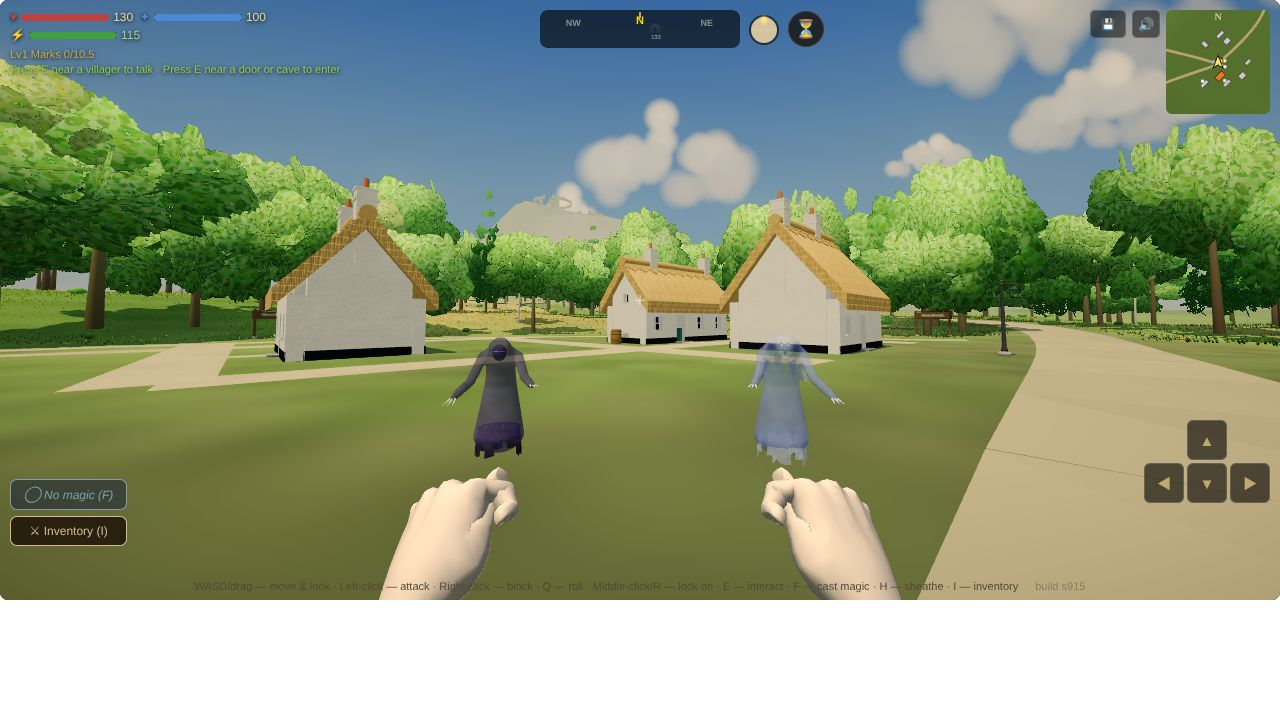
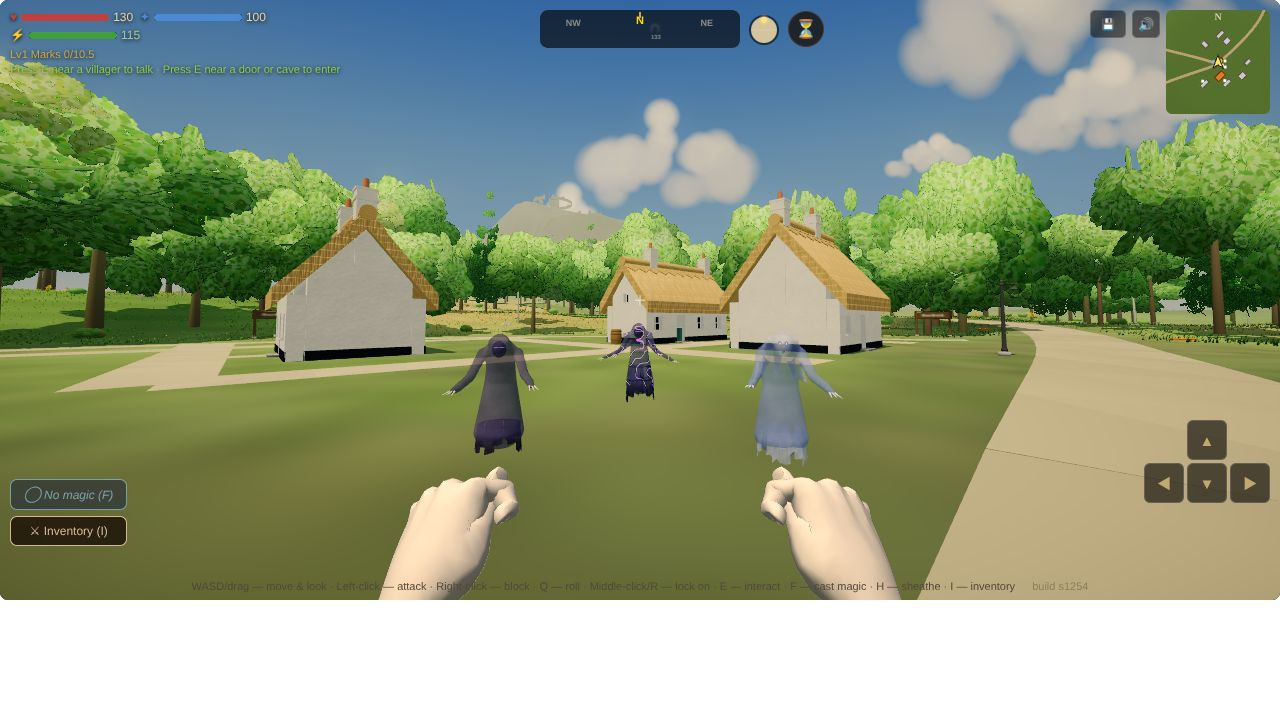
Bodies: Session 1866 — a failing gate's Wraith wears the failing wraith (L4, OG-073)
Claude-Session: https://claude.ai/code/session_019eFMMkdQc4EqECCY7Ban28

diff --git a/js/34-creatures.js b/js/34-creatures.js
@@ -977,6 +977,7 @@ const HC_KINDS={'Wolf':{plan:'wolf'},'Snow Wolf':{plan:'wolf',own:true},'Dire Wo
   'Golem':{plan:'golem',own:true,person:true,merge:true,ik:true,tall:true,glow:[.42,.69,1],glowR:.02},
   'Gargoyle':{plan:'gargoyle',own:true,person:true,merge:true,ik:true,glow:[1,.31,.13],glowR:.032,glowAt:{f:.8,up:.55,out:.5},garg:true},
   'Wraith':{plan:'wraith',own:true,person:true,legless:true,rest:HC_WRAITH_REST},'Phantom':{plan:'phantom',own:true,person:true,legless:true,rest:HC_WRAITH_REST},
+  'Wraith (failing)':{plan:'failingwraith',own:true,person:true,legless:true,rest:HC_WRAITH_REST,arms:true,float:.05}, /* S1866 — its hem is 15% longer, so it rides 5 cm higher, clear of the floor */
   'Deer':{plan:'deer',ik:true},'Hind':{plan:'deer',own:true,ik:true,bare:true},'Red Fox':{plan:'redfox'},'Brown Hare':{plan:'brownhare'},'Badger':{plan:'badger'},'Otter':{plan:'otter'},'Cow':{plan:'cow',ik:true},'Sheep':{plan:'sheep',ik:true},'Goat':{plan:'goat',ik:true},'Elderstag':{plan:'stag',ik:true},'Gatefen Boar':{plan:'gatefenboar'},'Redspine Fox':{plan:'redspinefox'},'Hollowcat':{plan:'hollowcat'},'Greenward Stoat':{plan:'stoat'},'Icehorn':{plan:'icehorn',ik:true},'Ironpine Elk':{plan:'ironpineelk',ik:true},'Craghorn Ram':{plan:'craghornram',ik:true},'Stormlynx':{plan:'stormlynx'},'Glacial Marmot':{plan:'glacialmarmot'},'Snowleap Hare':{plan:'snowhare'},'Duneskimmer':{plan:'duneskimmer',ik:true},'Terrace Ram':{plan:'terraceram',ik:true},'Sunspire Lynx':{plan:'sunspirelynx'},'Oasis Hare':{plan:'oasishare'},'Mirage Fox':{plan:'miragefox'},'Crownstag':{plan:'crownstag',ik:true},'Frostmane':{plan:'frostmane',ik:true},'Lanternfox':{plan:'lanternfox',night:true},'Thornrunner':{plan:'thornrunner'},'Stonejaw':{plan:'stonejaw'},
   'Shark':{plan:'reefshark',fish:true},'Whale':{plan:'stormwhale',fish:true},'Dolphin':{plan:'stormswift',fish:true},'Gull':{plan:'gull',fish:true,own:true,cell:.014},'Raven':{plan:'raven',fish:true,own:true,cell:.014},'Crow':{plan:'crow',fish:true,own:true,cell:.012},'Trout':{plan:'trout',fish:true,own:true,cell:.014},'River Pike':{plan:'riverpike',fish:true,own:true,cell:.02},'Riverjaw Salmon':{plan:'riverjaw',fish:true,own:true,cell:.02},'Mire Snake':{plan:'miresnake',fish:true,own:true,cell:.016},'Lantern Beetle':{plan:'lanternbeetle',fish:true,own:true,cell:.03},'Stonecrawler':{plan:'stonecrawler',fish:true,own:true,cell:.01},'Marsh Frog':{plan:'marshfrog',fish:true,own:true,cell:.012},'Frostspine Lizard':{plan:'frostspinelizard',fish:true,own:true,cell:.01},'Icecrab':{plan:'icecrab',fish:true,own:true,cell:.02},'Saltspine Monitor':{plan:'saltspinemonitor',fish:true,own:true,cell:.008},'Spined Gekko':{plan:'spinedgekko',fish:true,own:true,cell:.01},'Amber Shellcrab':{plan:'ambershellcrab',fish:true,own:true,cell:.02},'Sand Wyrm':{plan:'sandwyrm',fish:true,own:true,cell:.01},'Hen':{plan:'hen',fish:true,own:true,cell:.012},'Great Heron':{plan:'heron',fish:true,own:true,cell:.016},'Crag Hawk':{plan:'craghawk',fish:true,own:true,cell:.014},'Capercaillie':{plan:'capercaillie',fish:true,own:true,cell:.016},'Skyraven':{plan:'skyraven',fish:true,own:true,cell:.014},'Stormshrike':{plan:'stormshrike',fish:true,own:true,cell:.014},'Tundra Grouse':{plan:'tundragrouse',fish:true,own:true,cell:.012},'Scarlet Ibis':{plan:'scarletibis',fish:true,own:true,cell:.016},'Cypress Stalker':{plan:'cypressstalker',fish:true,own:true,cell:.016},'Sunbeak Vulture':{plan:'sunbeakvulture',fish:true,own:true,cell:.016},'Cliffswift':{plan:'cliffswift',fish:true,own:true,cell:.01},'Glasswing Moth':{plan:'glasswingmoth',fish:true,own:true,cell:.014},'Slime':{plan:'slime',fish:true},'Fire Elemental':{plan:'fireelemental',fish:true}};
 // the driver's joints and the kit's bones they move, parents first (the kit's front legs hang on spine3, the hind on spine0)
@@ -1008,6 +1009,14 @@ function hcOn(){return HC_BODY.on&&window.OG_LOOK==='new'&&typeof HC!=='undefine
 // is to its horse. Keyed as before, `coach:<road>:<i>`, so a team's two are two bodies and the same two every time.
 function buildCoachBeast(key,i,isle){const au=isle==='aurenne',mk=isle==='mark';
   const rg=buildWolf(au?'Mule':(i&&!mk&&(pHash(key)&1))?'Grey Horse':'Horse',au?1.44:1.6);rg.hcKey='coach:'+key+':'+i;if(ANIMAL_ISLES.includes(isle))rg.hcIsland=isle;return rg;}
+// Session 1866 (backlog L4, OG-073: "failing gates change their foes"): the condition of the gate you are in, or null outside one. A gate
+// is buildDungeon's own test (a cave that is no keep, lair or tutorial; 56-dungeon-build.js), and its condition makeGate's: the world's
+// entry's if it names one, else the gate's seed's (gateCondRoll, 52-dungeon-gen.js). Read when a foe's driver is built, so a gate's foes
+// take its form as they are made
+function hcGateCond(){try{const P=currentPortal;if(activeZoneId!=='dungeon'||!P||P.tutorial||dunKeepKind(P)||fortShapeFor(P)!=='cave')return null;
+  const W=(WORLD_DUNGEONS.find(e=>e.seed===P.seed)||{}).cond;return GATE_CONDS.includes(W)?W:gateCondRoll(P.seed);}catch(e){return null;}}
+// a foe whose kind the kit has a failing form for wears it in a failing gate, and in a catastrophic one, which has failed further
+function hcFailing(){const c=hcGateCond();return c==='failing'||c==='catastrophic';}
 function hcPlan(name){const K=HC_KINDS[name];if(!K.own)return K.plan;const id='game:'+name;
   // a person's (Session 1356): what it holds is the game's (a sword, or a spear), not the plan's sword and shield, which no rule of the
   // Skeleton's fight has; its sockets lit in the foe's eye colour (ZONE_FOE_DEF's 0x80c0ff), as the old body's are
@@ -1093,13 +1102,13 @@ function hcAttach(rig,C){const tA=performance.now();
   // a water bug's forelegs (Session 1337): each femur and tibia, and the tibia's hinge from the kit's rest (its bones' rest turns are the identity)
   const bug=rig.k&&rig.k.bug&&by.arm0L_2?['L','R'].map(n=>({n,fem:by['arm0'+n+'_0'],tib:by['arm0'+n+'_1'],ax:by['arm0'+n+'_1'].position.clone().cross(by['arm0'+n+'_2'].position).normalize()})):null;
   // the Faolchú's two pairs of arms (Session 1347): the kit's own list, posed by hcArms (the driver has no arm bones)
-  const arms=HC_KINDS[hcKind(rig)].arms?C.B.arms.map(A=>({b:A.names.slice(0,3).map(n=>by[n]),side:A.side,ph:A.phase,sw:A.swing,pair:+A.names[0][3]})):null;
+  const arms=HC_KINDS[hcKind(rig)].arms?C.B.arms.map(A=>({b:A.names.slice(0,3).map(n=>by[n]),side:A.side,ph:A.phase,sw:A.swing,pair:+A.names[0][3]})).filter(A=>!K.person||A.pair>0):null; /* S1866 — a person's first pair is the driver's own arms (HC_PMAP); only its extra pairs are posed by hcArms */
   // a dragon's wings (Session 1348): the kit's membrane wings, each arm's three bones and its fingers, posed by hcWings from the driver's
   const wings=HC_KINDS[hcKind(rig)].wings?C.B.wings.filter(W=>!W.feathered).map(W=>({side:W.side,ph:W.phase||0,arm:W.arm.map(n=>by[n]),fing:W.fingers.map(f=>by[f[0]])})):null;
   // a gargoyle's (Session 1375): the same wings, and its tail's joints
   const garg=K.garg?{wings:C.B.wings.map(W=>({side:W.side,arm:W.arm.map(n=>by[n]),fing:W.fingers.map(f=>by[f[0]])})),tail:Object.keys(by).filter(n=>/^tail\d+$/.test(n)).map(n=>by[n]),R:C.plan.wingRest}:null;
   const sway=K.sway?Object.keys(by).filter(n=>/^tail\d+$/.test(n)).map(n=>by[n]):null;
-  rig.hc={W,C,map,s0,t0,fur,small,ik,feet,hb,scorp,bug,arms,wings,sway,garg,merge:!!HC_KINDS[hcKind(rig)].merge,unhunch:!!HC_KINDS[hcKind(rig)].unhunch,rest:K.rest?Object.entries(K.rest):null,ank:K.person&&ik?map.map(([j],i)=>/^an/.test(j)?i:-1).filter(i=>i>=0):null,glow:meshes.map(m=>m.material.userData&&m.material.userData.uGlow).filter(u=>u&&u.value&&u.value.isColor),mid:null,bits:C.B.bits.map(b=>b.obj),hide:meshes.filter(m=>!fur.includes(m)),lift:K.legless?.24*SCALE.ROOM_K:0,hip0:sp?B.body.position.clone():K.person?new THREE.Vector3(0,PW.HIPS,0):new THREE.Vector3(B.hips.position.x,wolfHipY(rig.k),B.hips.position.z),pos0:by.spine0.position.clone(),k:1/(f*C.S),L:-1,drv:rig.mesh.material,em:-1};
+  rig.hc={W,C,map,s0,t0,fur,small,ik,feet,hb,scorp,bug,arms,wings,sway,garg,merge:!!HC_KINDS[hcKind(rig)].merge,unhunch:!!HC_KINDS[hcKind(rig)].unhunch,rest:K.rest?Object.entries(K.rest):null,ank:K.person&&ik?map.map(([j],i)=>/^an/.test(j)?i:-1).filter(i=>i>=0):null,glow:meshes.map(m=>m.material.userData&&m.material.userData.uGlow).filter(u=>u&&u.value&&u.value.isColor),mid:null,bits:C.B.bits.map(b=>b.obj),hide:meshes.filter(m=>!fur.includes(m)),lift:K.legless?.24*SCALE.ROOM_K-(K.float||0):0,hip0:sp?B.body.position.clone():K.person?new THREE.Vector3(0,PW.HIPS,0):new THREE.Vector3(B.hips.position.x,wolfHipY(rig.k),B.hips.position.z),pos0:by.spine0.position.clone(),k:1/(f*C.S),L:-1,drv:rig.mesh.material,em:-1};
   rig.hc.gr=hcGroundLegs(rig,by,K,W);
   if(HC_KINDS[hcKind(rig)].night)rig.hc.night=rig.hc.glow.map(u=>u.value.clone()); /* S1853 — a glow lit only at night (the Lanternfox), its full colour kept */
   HC_BODY.ms+=performance.now()-tA;HC_BODY.n++;}
@@ -1219,12 +1228,15 @@ function hcBug(rig){const B=rig.B;for(const A of rig.hc.bug){const o=B['fang'+A.
 // forward past their rest and settle, the hind pair a beat behind the fore. The kit's arm bones rest at the identity, so a turn about
 // x swings an arm fore and aft in the body's plane, as the kit's gait does (creatures.js, pose's "arms swing against the legs")
 const HC_FAOL={rise:.7,cock:-1.1,push:.9,reach:-.9,lag:.3};
-function hcArms(rig){const H=rig.hc,e=rig.e,w=e?(e._wind||0):0,lk=e&&e._lunge!=null?1-Math.max(0,e._lunge)/.3:-1,mv=1-((rig.w&&rig.w.stand)||0),tau=Math.PI*2,F=HC_FAOL;
+// Session 1866: a dungeon's foe strikes by e.atkAnim (0.35 s, counting down), not by the open world's e._lunge, so the rake reads either
+// a person's extra pair (Session 1866, the failing wraith's from the robe's middle) reaches ahead and down, where the Faolchú's hang
+// straight down, so the same turn about x runs the other way: drawn back and low through the wind-up, raked forward and up (sg)
+function hcArms(rig){const H=rig.hc,sg=HC_KINDS[hcKind(rig)].person?-1:1,e=rig.e,w=e?(e._wind||0):0,lk=e&&e._lunge!=null?1-Math.max(0,e._lunge)/.3:e&&e.atkAnim>0?1-Math.min(1,e.atkAnim/.35):-1,mv=1-((rig.w&&rig.w.stand)||0),tau=Math.PI*2,F=HC_FAOL;
   for(const A of H.arms){let u=-w;
     // the strike's course: from drawn back (-1) through the rake (+1) to the rest (0); the hind pair starts a beat late
     if(lk>=0){const k=Math.max(0,Math.min(1,(lk-(A.pair?F.lag:0))/(1-F.lag)));u=-Math.cos(1.5*Math.PI*k);}
     const s=A.sw*mv*Math.sin(tau*(rig.phase||0)+(A.side>0?0:Math.PI)+A.ph);
-    A.b[0].rotation.set(s+(u<0?F.rise:F.push)*u,0,0);A.b[1].rotation.set(-Math.abs(s)*.6-.2-F.cock*Math.max(0,-u)+F.reach*Math.max(0,u),0,0);A.b[2].rotation.set(.3*u,0,0);}}
+    A.b[0].rotation.set(sg*(s+(u<0?F.rise:F.push)*u),0,0);A.b[1].rotation.set(sg*(-Math.abs(s)*.6-.2-F.cock*Math.max(0,-u)+F.reach*Math.max(0,u)),0,0);A.b[2].rotation.set(sg*.3*u,0,0);}}
 // Session 1348: a dragon's wings. The driver has one bone a side, folded along the back at rest and spread and beating once roused
 // (wgApply: rig.wing 0 to 1, rig.flap the beat's phase). The kit's wings take the same two numbers through its own pose's turns
 // (creatures.js, "wings rest half-folded … or beat"): folded at the plan's own rest (wingFold, 0.22; at 1 a dragon's wings hang open to

diff --git a/js/32-people.js b/js/32-people.js
@@ -1125,7 +1125,7 @@ function buildFoe(type,x,z,genome,eyeCol,arm){
   if(g.goblin&&typeof hcOn==='function'&&hcOn()){rig.hcKind=g.wpn?'Goblin':'Goblin Slinger';HC_RIGS.add(rig);} /* S1364 (F4) — and the goblins the kit's goblin, the knife's or the slinger's empty hands */
   if(g.troll&&typeof hcOn==='function'&&hcOn()&&HC_KINDS[type]){rig.hcKind=type;HC_RIGS.add(rig);} /* S1378 (F4) — the trolls the kit's troll, with its maul, in their kind's hide */
   if(g.golem&&typeof hcOn==='function'&&hcOn()){rig.hcKind='Golem';HC_RIGS.add(rig);} /* S1371 (F4) — the Golem the kit's golem, its eyes rune-lit */
-  if(g.wraith&&typeof hcOn==='function'&&hcOn()){rig.hcKind=g.phantom?'Phantom':'Wraith';HC_RIGS.add(rig);} /* S1429 (F4) — the Wraith and the Phantom the kit's, floating legless with their claws (hcPose takes off the driver's stance) */
+  if(g.wraith&&typeof hcOn==='function'&&hcOn()){rig.hcKind=g.phantom?'Phantom':hcFailing()?'Wraith (failing)':'Wraith';HC_RIGS.add(rig);} /* S1866 — in a failing gate the failing wraith (OG-073) */ /* S1429 (F4) — the Wraith and the Phantom the kit's, floating legless with their claws (hcPose takes off the driver's stance) */
   if(g.gargoyle&&typeof hcOn==='function'&&hcOn()){rig.hcKind='Gargoyle';HC_RIGS.add(rig);} /* S1375 (F4) — the Gargoyle the kit's gargoyle, its stone wings folded by its fold (hcGarg) */
   if(hbOn()&&hbFoeOk(type,genome,g)){rig.hbFoe=type;if(g.hbKey)rig.hbG=HB_GENOMES.get(g.hbKey);HB_RIGS.add(rig);} /* S1201 (F4) — a human foe wears the builder's body too, its genome rolled at its first attach, by its id */
   return rig;

diff --git a/docs/backlog.md b/docs/backlog.md
@@ -576,7 +576,7 @@ Michael marked all 96 images of the intake on the review page: 63 KEEP and 33 NO
 ### L4. The gates' foes (with C's gates by school)
 - **Each school's hall and antibodies** (look and systems; OG-018, which draws §9a exactly): Tine forge-hot, Uisce drowned, Cloch fallen masonry, Scáth violet dark, Solas white light, Gaoth open to the sky; occupied gates as goblin warrens. New foes: Magma Slime, Drowned Skeleton, Frost Thing (needs a folk shape under the ice; two plans in the kit, Session 958, `frostshard` and `frostfolk`; Michael's B on DECISION #362, the folk shape, `frostfolk`; ~~its face~~ — done, Session 968: the skeleton's skull inside his head, seen through ice thinned to 0.4 over the face, `faceClear` in the kit; `creatures-frostfolk-head.jpg`, `-front.jpg`; owed: the game, after F4), Wisp and Winged Thing, which fill Gaoth, the school with no foes yet. **The Winged Thing is a plan in the kit, Session 955** (bodies builder; `creatures.js` `wingedthing`, `creatures-wingedthing.jpg`, `-fly.jpg`): a griffin of a big cat's body, an eagle's head and beak, feathered wings and a feathered tail fan, pale storm-grey; ~~eagle's talons for its forefeet~~ — done, Session 960 (`talonFore`, a hind toe on `claws.back`; `creatures-wingedthing-front.jpg`); ~~hooked, not straight~~ — done, Session 970 (`claws.hook` in the kit: each claw arches onto its point, its tip where a straight one's is; `creatures-wingedthing-foot.jpg`, from the bestiary's new `cam=foot`); ~~its folded wing's feathers fanned out sideways from the wrist~~ — done, Session 974 (a quill bone for every flight feather in the kit, turned back along the body when the wing folds, on all nine feathered fliers; `creatures-wingedthing-folded.jpg`, `creatures-craghawk-folded.jpg`, `creatures-duskeagle-folded.jpg`); ~~the folded wing a thin dark line from the side~~ — done, Session 983 (each quill also rolled about its own line so the card leans down over the flank, faces 39 degrees from facing out on average where they were 84; `creatures-wingedthing.jpg` against `creatures-wingedthing-side-before.jpg`); ~~the Dusk Eagle's ragged primaries closing like a whole wing~~ — done, Session 984 (`feathers.ragged` fans the few primaries down the flank when folded, 3.2 degrees between neighbours where the hawks' stack at 0.6; `creatures-duskeagle-perched.jpg`, `creatures-duskeagle-folded.jpg`); owed: the game (after F4). **OG-018's gargoyles are plans, Session 956** (`gargoyle` for Cloch, moss-stained stone, and `gaothgargoyle`, weathered pale, wings a quarter wider; `GARGOYLES`; `creatures-gargoyle.jpg`, `-front.jpg`, `-fly.jpg`, `creatures-gaothgargoyle.jpg`): the goblin's crouched frame in stone, horns, a tail, a stone ridge, bat wings folded up behind the shoulders by `wingRest`; the wings' stone skin drew near black, ~~fixed~~ — done, Session 959 (`wingLight`: a skin wing gives back a share of its colour as light through it; the dragon's too); owed: the game's dormant Gargoyle replaced (after F4). **OG-018's Phantom is a plan in the kit, Session 1428** (bodies builder; `creatures.js` `phantom`, `PHANTOMS`; `creatures-phantom-front.jpg`, `-side.jpg`, `-back.jpg`, `-head.jpg`, `-hover.jpg`): the wraith's legless floating body and claws (Michael's B on #158), its face kept, two hollow sockets with a pale light each and a hollow wailing mouth, five locks of hair streaming down its back, clearer (0.58) and a tenth smaller than the wraith; ~~the Wraith and the Phantom on the kit's bodies in the game~~ — done, Session 1429 (`HC_KINDS`' `legless`, `HC_WRAITH_REST`; `tests/f4wraiths`, `docs/prototypes/f4/f4-wraiths.jpg`).
 - **The classic five, dark** (look builder; OG-041): a skeleton with a notched sword and round shield, a crouched goblin with spear and hide shield, a cave troll whose hide grows moss (a Cloch troll), a slime with bones and rubble inside, a pale giant spider with egg sacs. **The cave troll is a plan in the kit, Session 926** (bodies builder; `creatures.js` `troll`, `creatures-troll.jpg`): a hunched biped, 2.2 m to the crown, moss on its stone-grey hide; OG-018's Tine and Uisce trolls as recolours and a brow on the head, Session 927 (`TROLLS`, `creatures-trolls.jpg`); ~~its lashed-on armour scraps~~ — done, Session 945 (`straps` again: iron plates on the chest and shoulder and a rawhide sheet on the back under three leather lashings, on the OG-041 troll only; `creatures-troll-front.jpg`, `-back.jpg`). **The slime is a plan, Session 928** (`slime`, with OG-018's `magmaslime` for Tine; `SLIMES`): clear, bones and rubble inside; ~~the holes through it~~ — done, Session 954 (`holes` in the kit: three tunnels cut through the flesh from flank to flank, both slimes on a 6 cm grid; `creatures-slime.jpg`, `creatures-magmaslime.jpg`). **The giant spider's thorns and egg sacs, Session 932** (`spider`: thorns up every leg segment, a clutch of silk sacs under the abdomen's tip; `creatures-spider.jpg`, `creatures-spider-back.jpg`). **The goblin is a plan, Session 933** (`goblin`, `GOBLINS`; `creatures-goblin.jpg`, `creatures-goblin-front.jpg`, `creatures-classic.jpg`): the troll's frame at half its height, long ears, a spear and a hide shield (`gear` in the kit, the first gear on a creature); ~~its scrap-leather harness~~ — done, Session 944 (`straps` in the kit: a belt, a sash and a hide shoulder scrap laid 7 mm on the grown skin, each point on the skin's own weights; `creatures-goblin-front.jpg`, `-back.jpg`). **The skeleton is a plan, Session 934** (`skeleton`, `SKELETONS`; `creatures-skeleton.jpg`, `creatures-skeleton-front.jpg`): the kit's first bare body (`bare`: its capsules drawn as bones), ribs and a pelvis, a notched sword and a round wooden shield; ~~its hip rags (cloth on a creature)~~ — done, Session 943 (`rags` in the kit: torn strips on a cord, passing to the thigh bones down their length; `creatures-skeleton-front.jpg`, `-back.jpg`); ~~a truer skull~~ — done, Session 942 (a modelled skull and mandible, 20 teeth, the drowned skeleton's eyes lit in the sockets; `creatures-skeleton-skull*.jpg`); ~~OG-018's drowned skeleton (Uisce)~~ — done, Session 935 (`drownedskeleton`, weed-hung; `creatures-drownedskeleton.jpg`). So all five of OG-041 are plans (`creatures-classic.jpg`). ~~The giant spider in the game~~ — done, Session 1319 (bodies builder; the Spider foe on the kit's `spider` behind the new look, at twice the kit's cell, its eight feet set where its old rig's are; `f4spiders`, `docs/prototypes/f4/f4-spiders.jpg`); ~~the Sand Scorpion (`dunescorpion`)~~ — done, Session 1325 (`f4spiders`, `docs/prototypes/f4/f4-scorpion.jpg`); the Bog Crawler is a plan in the kit, Session 1336 (`bogcrawler`, `CRAWLERS`: a flat oval water bug on four walking legs, the raptorial forelegs as arms with a hooked tibia, `hook` in the kit's arms; `creatures-bogcrawler-*.jpg`); ~~the Bog Crawler in the game~~ — done, Session 1337 (behind the new look on the spider's driver, its forelegs folding with the driver's fang and hook bones, `hcBug`; `f4spiders`, `docs/prototypes/f4/f4-bogcrawler.jpg`): the whole spider family wears the kit. ~~The Faolchú in the game~~ — done, Session 1342 (the boss and its lesser kin on the kit's own `faolchu`, two pairs of arms now, over the Dire Wolf's rig without its hunch, the seam in the phase's colour, cell 0.03: 16,112 triangles, 146 ms; `faolchu`, `docs/prototypes/f4/f4-faolchu.jpg`). ~~The dragon in the game~~ — done, Session 1348 (`f4beasts`). ~~The Skeleton in the game~~ — done, Session 1356 (bodies builder; the kit's `skeleton` on the people's 17-bone driver behind the new look, its first biped: `HC_PMAP`, sized by its stature, the kit's notched sword or a spear by what it was dealt and no shield, its sockets lit; 23 bones, 4,224 triangles, ~30 ms; `f4bones`, `docs/prototypes/f4/f4-skeletons.jpg`). ~~The goblins in the game~~ — done, Session 1364 (the Goblin and the Goblin Slinger on the kit's `goblin`, green, over the people's driver with its own hunch taken off and the ankles held to it, the game's rusted knife or empty hands; cell 0.05: 7,440–7,772 triangles, ~53 ms, baked at the middle level; `f4goblins`, `docs/prototypes/f4/f4-goblins.jpg`). ~~The trolls in the game~~ — done, Session 1378 (the Cave, Forest and Frost Troll on the kit's `troll`, in their kinds' hides, the driver's eye colour, a maul in the kit (`gear` kind `maul`, the troll plan's own), sized by the legs with the ankles held; 23 bones, 12,568–12,916 triangles, ~53 ms, baked at the middle level; `f4trolls`, `docs/prototypes/f4/f4-trolls.jpg`). ~~The Golem in the game~~ — done, Session 1371 (the kit's `golem` on the people's driver, sized by its stature with its ankles held to the driver's, its eyes rune-lit and the driver's rune slits gone with its body; 22 bones, 5,288–5,572 triangles, ~30 ms, baked at the middle level; `f4golems`, `docs/prototypes/f4/f4-golems.jpg`). ~~The Gargoyle in the game~~ — done, Session 1375 (the kit's `gargoyle` on the people's driver behind the new look, sized by its legs with its ankles held at the rest offset, its stone wings folded asleep at the plan's rest and open and beating awake from the driver's fold, `hcGarg`, its tail swaying, its eyes the driver's ember set forward on the muzzle; 58 bones, 7,116–7,276 triangles, ~55 ms, baked at the middle level; `f4gargoyles`, `docs/prototypes/f4/f4-gargoyles.jpg`). ~~The kobolds in the game~~ — done, Session 1379 (the Kobold and the Kobold Thief on the people builder's body behind the new look, not the creature kit's: Michael's B on Session 178 is a small old man, so `HB_FOE_BODY` ages the rolled genome, greys and lengthens its beard and stands it short and thickset, and `HB_FOE_DRESS` hoods and capes it; the weapon kit's new `mattock` in its fist on both looks; 163 bones, 53,800–55,500 triangles; `f4kobolds`, `docs/prototypes/f4/f4-kobolds.jpg`). ~~The Ogre~~ (Session 1386, `f4ogres`) and ~~the Marsh Hag~~ (Session 1389, `f4hags`) on the people builder's body. ~~The Hollowed and the Ghoul in the game~~ — done, Session 1404 (the builder's body behind the new look, its skin rotted by people.js's `rot` (Session 1403) at .7 and 1, barefoot in the grave's drab, the driver's lit eyes laid over the builder's own (`hbEyeGlow`); 58,228–62,187 triangles; `f4dead`, `docs/prototypes/f4/f4-dead.jpg`). Still on the old people's body: the Ash Wight and the ghosts (the Wraith, the Phantom). (Correction, Session 1592: those three have moved since, the Ash Wight in Session 1409 and the ghosts in Session 1429.) ~~The Slime and the Small Slime in the game~~ — done, Session 1592 (bodies builder; the kit's `slime` behind the new look by the shark's driverless path, `hcSlimeRig`: the old blob's length on the floor, crawling, its quiver copied, keyed `slime:<id>`; 6 bones, 6,356 triangles; `f4slimes`, `docs/prototypes/f4/f4-slimes.jpg`). Found on the way, Session 1591: no body (kit or builder) was built in a gate entered with town jobs queued (`hbTick`'s and `hcTick`'s wait on `JOBS`, which only the open world runs), fixed. ~~The Fire Elemental in the game~~ — done, Session 1593 (the kit's `fireelemental` by the same path, `hcDunRig`, fitted by its height, hovering; the core's own glow kept off the crust, only a wind-up or a parry carried; 70 bones, 27,100 triangles; `f4slimes`, `docs/prototypes/f4/f4-elemental.jpg`). Every foe of a gate now wears a kit or builder body on the new look but the Mimic (a chest).
-- **Failing gates change their foes** (look builder; OG-073): one rig per foe with extra limbs and broken anatomy for a failing gate, glow only at the seams. The catastrophic column is a boss tier below the dragon (Michael's 8 B; canon §5). **Solas's failing skeleton is a plan in the kit, Session 1168** (bodies builder; `creatures.js` `failingskeleton`, `FAILING`, `creatures-failingskeleton*.jpg`, `creatures-failing-solas.jpg`): the steady skeleton with two more pairs of arms, bone spurs down the back, three more ribs, and its bones cracked with only the cracks lit white-gold; ~~Gaoth's failing gargoyle~~ — done, Session 1169 (`failinggargoyle`: wings half again the Cloch gargoyle's, a second pair of clawed arms from the shoulder blades, the stone's cracks lit storm blue-white; `creatures-failinggargoyle-*.jpg`); ~~Uisce's failing slime~~ — done, Session 1174 (`failingslime`: a third bigger, pale blue-white, three crests rising off its back and rolling each on its own beat, more of the drowned inside, the veins lit sea-blue; the kit's new `crests` part; `creatures-failingslime-*.jpg`); ~~the steady golem~~ — done, Session 1175 (`golem`, `GOLEMS`: OG-018's mossy Cloch golem, the game's dressed stone, every bone a hewn block, the kit's new `bare.blocks`; `creatures-golem-*.jpg`); ~~Cloch's failing golem~~ — done, Session 1176 (`failinggolem`: doubled into a pair on one rig, two heads and two pairs of arms on a widened chest, the blocks cracked and the cracks lit Cloch's violet; `P.head` takes a `name`, `off` and `yaw`; `creatures-failinggolem-*.jpg`); ~~the steady wraith~~ — done, Session 1177 (`wraith`, `WRAITHS`: OG-018's Scáth wraith as the game's since S555, a hollow hood with two violet slits, no legs, a robe floating clear of the ground torn into tongues, long arms with bone claws; the kit's `hover` gait, `hood`, slit eyes; `creatures-wraith-*.jpg`; ~~its dark oval seen from behind~~ — done, Session 1187: the hood's black cup showed through the clear cowl, now drawn only while the eye is ahead of its opening, `hoodFacing`, `creatures-wraith-back.jpg`); ~~Scáth's failing wraith~~ — done, Session 1178 (`failingwraith`: a second pair of clawed arms from the robe's middle, a second ring of torn cloth and the hem's tongues longer, the seams lit Scáth's violet; `creatures-failingwraith-*.jpg`); ~~the steady fire elemental~~ — done, Session 1185 (`fireelemental`, `ELEMENTALS`: OG-018's Tine elemental as the game's since S222, no legs, a dark slag crust lit only in its cracks over a column of flame, 14 tongues grown from the body with a crown of 4 on the head, licking at rest, arms of flame with lit claws; the kit's crests rooted anywhere, `glow.tones`, `flicker`; `creatures-fireelemental-*.jpg`); ~~Tine's failing form~~ — done, Session 1186 (`failingfireelemental`: the flame clearer and hotter, and through it a skeleton of dark hewn stone, blocks on the spine and neck, stone ribs and hip, a stone skull with its eyes lit, a shaft down every arm; a second pair of flaming arms off the ribs, stone spurs breaking out at the shoulders and back; the kit's `frame`; `creatures-failingfireelemental-*.jpg`), so all six of OG-073's failing forms are plans; ~~a second pair of wings for Gaoth's~~ — done, Session 1191 (`P.wings` takes a `pair`, named into its bones, with its own `rest` and beat `phase`; `failinggargoyle`'s second pair lower on the back, three-fingered, beating out of step; `creatures-failinggargoyle-*.jpg`); owed: the game (after F4).
+- **Failing gates change their foes** (look builder; OG-073): one rig per foe with extra limbs and broken anatomy for a failing gate, glow only at the seams. The catastrophic column is a boss tier below the dragon (Michael's 8 B; canon §5). **Solas's failing skeleton is a plan in the kit, Session 1168** (bodies builder; `creatures.js` `failingskeleton`, `FAILING`, `creatures-failingskeleton*.jpg`, `creatures-failing-solas.jpg`): the steady skeleton with two more pairs of arms, bone spurs down the back, three more ribs, and its bones cracked with only the cracks lit white-gold; ~~Gaoth's failing gargoyle~~ — done, Session 1169 (`failinggargoyle`: wings half again the Cloch gargoyle's, a second pair of clawed arms from the shoulder blades, the stone's cracks lit storm blue-white; `creatures-failinggargoyle-*.jpg`); ~~Uisce's failing slime~~ — done, Session 1174 (`failingslime`: a third bigger, pale blue-white, three crests rising off its back and rolling each on its own beat, more of the drowned inside, the veins lit sea-blue; the kit's new `crests` part; `creatures-failingslime-*.jpg`); ~~the steady golem~~ — done, Session 1175 (`golem`, `GOLEMS`: OG-018's mossy Cloch golem, the game's dressed stone, every bone a hewn block, the kit's new `bare.blocks`; `creatures-golem-*.jpg`); ~~Cloch's failing golem~~ — done, Session 1176 (`failinggolem`: doubled into a pair on one rig, two heads and two pairs of arms on a widened chest, the blocks cracked and the cracks lit Cloch's violet; `P.head` takes a `name`, `off` and `yaw`; `creatures-failinggolem-*.jpg`); ~~the steady wraith~~ — done, Session 1177 (`wraith`, `WRAITHS`: OG-018's Scáth wraith as the game's since S555, a hollow hood with two violet slits, no legs, a robe floating clear of the ground torn into tongues, long arms with bone claws; the kit's `hover` gait, `hood`, slit eyes; `creatures-wraith-*.jpg`; ~~its dark oval seen from behind~~ — done, Session 1187: the hood's black cup showed through the clear cowl, now drawn only while the eye is ahead of its opening, `hoodFacing`, `creatures-wraith-back.jpg`); ~~Scáth's failing wraith~~ — done, Session 1178 (`failingwraith`: a second pair of clawed arms from the robe's middle, a second ring of torn cloth and the hem's tongues longer, the seams lit Scáth's violet; `creatures-failingwraith-*.jpg`); ~~the steady fire elemental~~ — done, Session 1185 (`fireelemental`, `ELEMENTALS`: OG-018's Tine elemental as the game's since S222, no legs, a dark slag crust lit only in its cracks over a column of flame, 14 tongues grown from the body with a crown of 4 on the head, licking at rest, arms of flame with lit claws; the kit's crests rooted anywhere, `glow.tones`, `flicker`; `creatures-fireelemental-*.jpg`); ~~Tine's failing form~~ — done, Session 1186 (`failingfireelemental`: the flame clearer and hotter, and through it a skeleton of dark hewn stone, blocks on the spine and neck, stone ribs and hip, a stone skull with its eyes lit, a shaft down every arm; a second pair of flaming arms off the ribs, stone spurs breaking out at the shoulders and back; the kit's `frame`; `creatures-failingfireelemental-*.jpg`), so all six of OG-073's failing forms are plans; ~~a second pair of wings for Gaoth's~~ — done, Session 1191 (`P.wings` takes a `pair`, named into its bones, with its own `rest` and beat `phase`; `failinggargoyle`'s second pair lower on the back, three-fingered, beating out of step; `creatures-failinggargoyle-*.jpg`); owed: the game (after F4). ~~**The failing wraith in the game**~~ — done, Session 1866 (bodies builder; `HC_KINDS['Wraith (failing)']`, `hcGateCond`/`hcFailing` in `34-creatures.js`: a Wraith built in a failing or catastrophic gate wears `failingwraith`, its lower pair of claws posed by `hcArms`; `f4wraiths` +2; `f4-failingwraith-rest.jpg`, `-wind.jpg`). Still owed in the game: the failing skeleton, golem and gargoyle (their steady forms are in), the failing slime and fire elemental (their steady forms are not).
 - **Corrupted animals by school** (look builder; OG-088): a shape change, never a recolour: a frost bear (Uisce), a crystal-spined boar and a stone troll (Cloch), a stag whose antlers breathe mist (Scáth), a dusk eagle (Gaoth). The gate-born row as silhouettes for gate interiors. Drop the sheet's *mana* and *original inhabitants* lines. **Four are plans in the kit, Session 919** (bodies builder; `creatures.js` `CORRUPTED`, `creatures-corrupted.jpg`): the frost wraith bear (Uisce), the blight boar (Cloch), the stag of shadows (Scáth), the dusk eagle (Gaoth); the frost bear's crown moved to its brow, Session 925; the stone troll (Cloch), Session 926 (`stonetroll`, from the new `troll`); ~~the stag's mist~~ — done, Session 969 (`antlers.mist` in the kit: soft violet puffs rising from every tine, looped on the stride; `creatures-shadowstag.jpg`, `-front.jpg`); ~~the mist rising in the head's frame~~ — done, Session 975 (it rises in the body's up and drifts along the body's back, whatever the head does); owed: the game (after F4).
 
 ### L5. Places

diff --git a/docs/devlog/1866.md b/docs/devlog/1866.md
@@ -1,0 +1,60 @@
+## v80 — Session 1866 — a failing gate's Wraith wears the failing wraith (backlog L4, OG-073)
+The bodies builder's run of 5 Nov, 09:17 UTC. No freeze was open. The lane's last branch (`auto/bodies-1861`) had landed 2 hours
+earlier, and section I held nothing new for the bodies builder: the Pádraig cloak item is still only watched. Michael had no open note on
+the builder.
+
+Backlog L4's *Failing gates change their foes* (OG-073) has had all six failing forms as plans in the creature kit since Session 1191,
+each marked "owed: the game (after F4)". F4 has landed, and the Wraith has worn the kit's steady wraith since Session 1429. Until this
+session nothing in the game read a gate's condition for its foes. A Wraith in a failing gate looked the same as one in a steady gate.
+This session brings in the first failing form. It builds what the backlog and OG-073 already set, so nothing new is asked.
+
+**The gate's condition** (`34-creatures.js`, `hcGateCond`, `hcFailing`):
+- `hcGateCond` gives the condition of the gate you are in, or null anywhere else.
+- It counts a place as a gate by `buildDungeon`'s own test: you are in a dungeon (`activeZoneId`), and the portal is a cave
+  (`fortShapeFor`) that is not a keep, a lair or the tutorial (`dunKeepKind`).
+- It reads the condition as `makeGate` does: the world entry's `cond` if it names one, else the gate's seed's (`gateCondRoll`).
+  It changes no outcome and reads no random stream.
+- `hcFailing` is true in a failing gate and in a catastrophic one, which has failed further.
+
+**The failing wraith** (`HC_KINDS['Wraith (failing)']`, plan `failingwraith`):
+- `buildFoe` (`32-people.js`) names a Wraith's kit kind as it is built, so a gate's foes take its form as they are made.
+- A Phantom has no failing form and stays as it is.
+- The failing wraith has a second pair of clawed arms from the robe's middle, a second ring of rags, the hem 15% longer, and its seams
+  lit in Scáth's violet. It is 34,604 triangles against the steady wraith's 17,864.
+- Its longer hem came within 7 mm of the ground. So the kind rides 5 cm higher (`float`, taken off `lift`), and its lowest point now
+  stays 0.06 to 0.20 m up through the glide.
+
+**The lower pair of arms.** The driver has no arms to copy for it, so the kit's own arms are posed by `hcArms`, the Faolchú's
+(Session 1347):
+- For a person kind, the first pair is the driver's (HC_PMAP), so only the extra pairs are posed.
+- The Faolchú's arms hang straight down, but these reach forward and down. The same turn about x would run backwards, so for a person
+  kind it is flipped (`sg`): the claws draw back and low through the wind-up and rake forward and up in the strike.
+- `hcArms` only read the open world's strike (`e._lunge`). It now also reads a dungeon foe's (`e.atkAnim`, 0.35 s counting down), so
+  the rake shows in a gate.
+- Nothing about the foe's rules changes: its health, damage, reach and resistances are the Wraith's.
+
+### Verified (headless Chromium)
+- `f4wraiths` 1/1 with `--no-retry`, two new checks and every old check now run on all three ghosts:
+  - The failing wraith is built on the kit's failing plan, keyed by its foe id, with 10 joints copied and no legs. Its driver and hood
+    darkness are hidden, and its two eyes are lit.
+  - It floats 0.057 to 0.197 m up; the steady wraith 0.103 to 0.245.
+  - Its upper claws swing through a blow, the wrist 1.03, then 1.67, then 0.60 m up.
+  - Its lower pair (`1L`, `1R`) is posed by the kit. The right wrist is 0.52 m ahead at rest, 0.38 at the wind-up and 0.55 in the
+    rake, rising from 0.96 to 1.19 m.
+  - `hcGateCond`: null in the world and in a lair. For gate seeds found by `gateCondRoll` it gives steady, failing and catastrophic,
+    with the failing form in the last two.
+- `parsecheck.py` clean; `node --check` on the suite; no page errors.
+- Pictures: `docs/prototypes/f4/f4-failingwraith-rest.jpg` and `-wind.jpg` (the steady and the failing wraith at 3 m, at rest and at
+  the wind-up), and `f4-wraiths.jpg` with the failing one behind the pair.
+- Not run: entering a real failing gate with wraiths in its pool. `hcGateCond` reads the same portal and zone that `buildDungeon` has
+  set by the time it builds its foes.
+
+### Needs eyes
+- In a catastrophic gate the Wraith also wears the failing form, since that gate has failed further. The catastrophic column (a boss tier
+  below the dragon, Michael's 8 B) is not drawn yet. If a catastrophic gate should keep its steady foes until then, this is one line in
+  `hcFailing`.
+- A failing wraith appears in any failing gate whose pool has wraiths, not only Scáth's. OG-073 names the wraith as Scáth's form. A
+  steady wraith in a failing Tine gate would look odd, so I read the form as belonging to the foe, not the school.
+- The lower pair reads well from the side, but head-on at a distance it is lost in the robe.
+- Still owed: the failing skeleton, golem and gargoyle, whose steady forms are in the game and take the same path, one a session. The
+  failing slime and the fire elemental wait on their steady forms.
